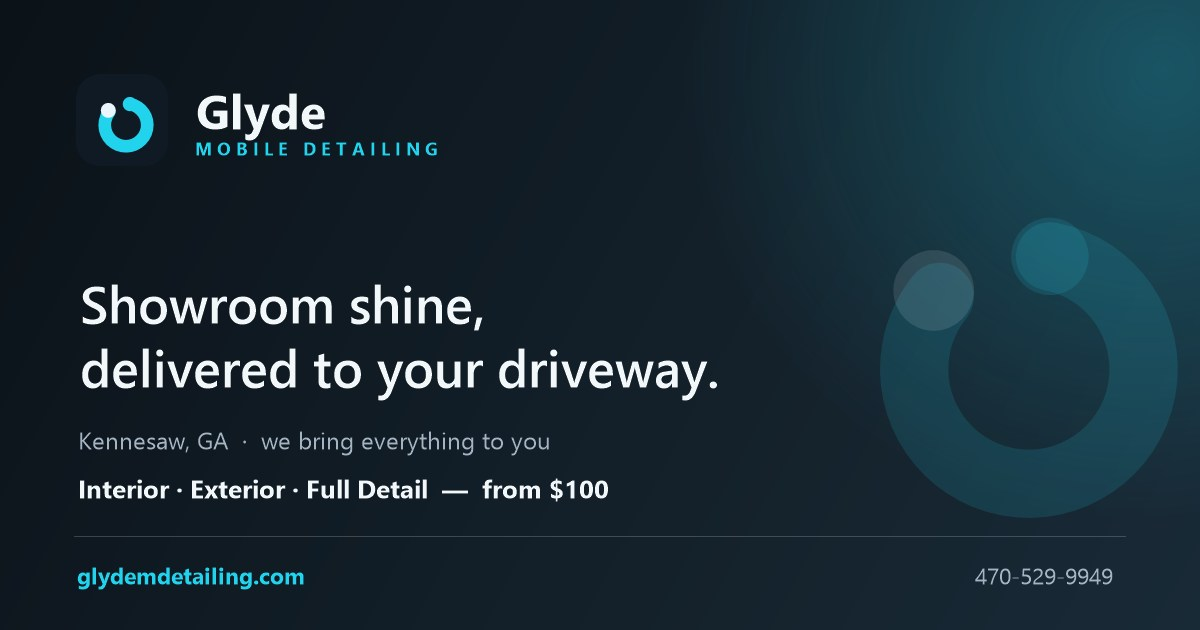
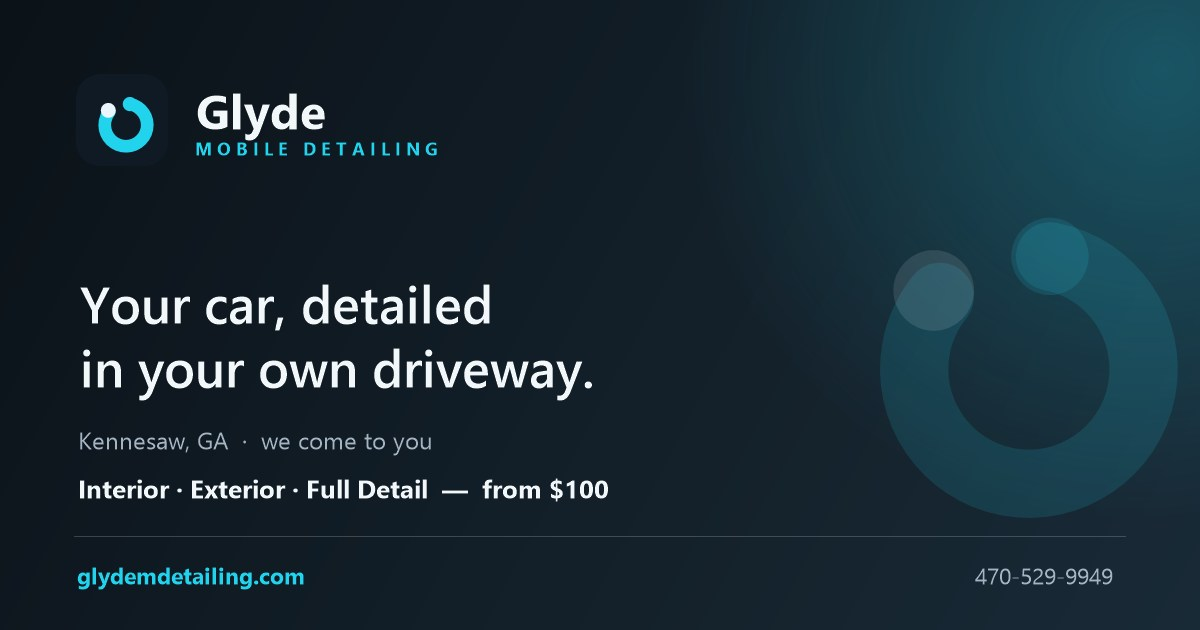
Replace the hero headline so it doesn't echo a competitor
A business with a near-identical name, Glide Detail, ranks on the same
Google search and uses "Showroom-grade mobile detailing, done right at
your driveway." Ours read "Showroom shine, delivered to your driveway",
close enough to look derivative. It is now "Your car, detailed in your
own driveway."

Rebuilds the share preview card with the new headline, and corrects a
line on it that read "we bring everything to you" — we use the client's
spigot and outlet, so it now says "we come to you". The og:image URL
carries ?v=2 so caches fetch the new card.

Changed region(s): [[0.0617, 0.5429, 0.5858, 0.6333], [0.0617, 0.4524, 0.4317, 0.5429], [0.2467, 0.6937, 0.4625, 0.7238]]

diff --git a/index.html b/index.html
@@ -11,7 +11,7 @@
 <meta property="og:type" content="website">
 <meta property="og:site_name" content="Glyde Mobile Detailing">
 <meta property="og:url" content="https://glydemdetailing.com/">
-<meta property="og:image" content="https://glydemdetailing.com/images/social-preview.jpg">
+<meta property="og:image" content="https://glydemdetailing.com/images/social-preview.jpg?v=2">
 <meta property="og:image:width" content="1200">
 <meta property="og:image:height" content="630">
 <meta property="og:image:alt" content="Glyde Mobile Detailing — mobile detailing in Kennesaw, GA, from $100">
@@ -124,7 +124,7 @@
     <div class="container hero-grid">
     <div class="hero-inner">
       <p class="eyebrow"><span class="dot"></span>Kennesaw, GA &amp; 10 miles around</p>
-      <h1>Showroom shine, <span class="text-accent">delivered to your driveway.</span></h1>
+      <h1>Your car, <span class="text-accent">detailed in your own driveway.</span></h1>
       <p class="hero-sub">Glyde is a mobile detailing service — we bring the tools and products to you and hand-detail your vehicle right in your driveway. No drop-off, no waiting room, no rearranging your day.</p>
 
       <div class="hero-actions">
